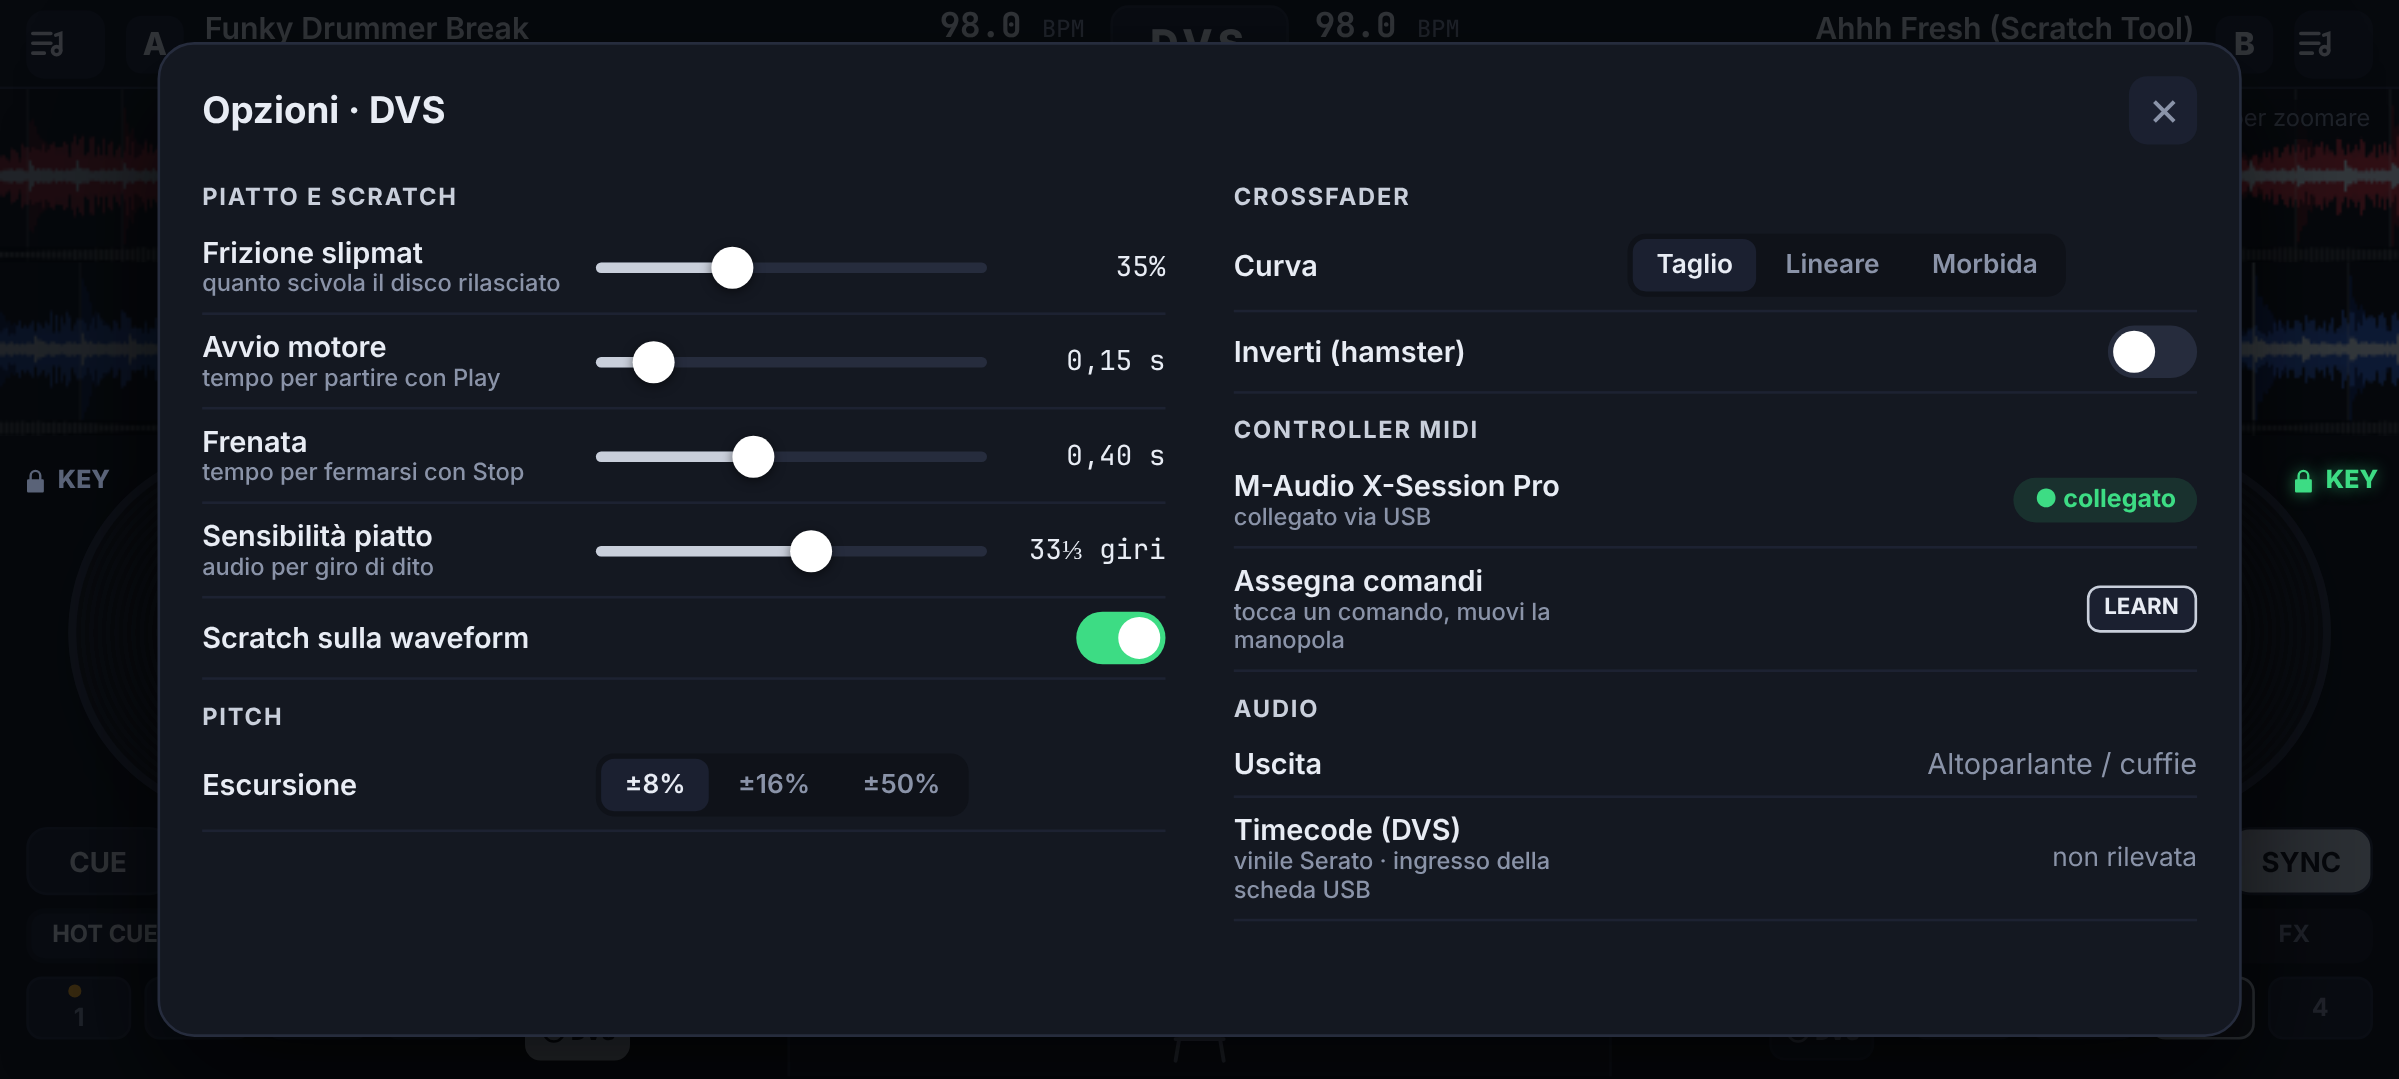
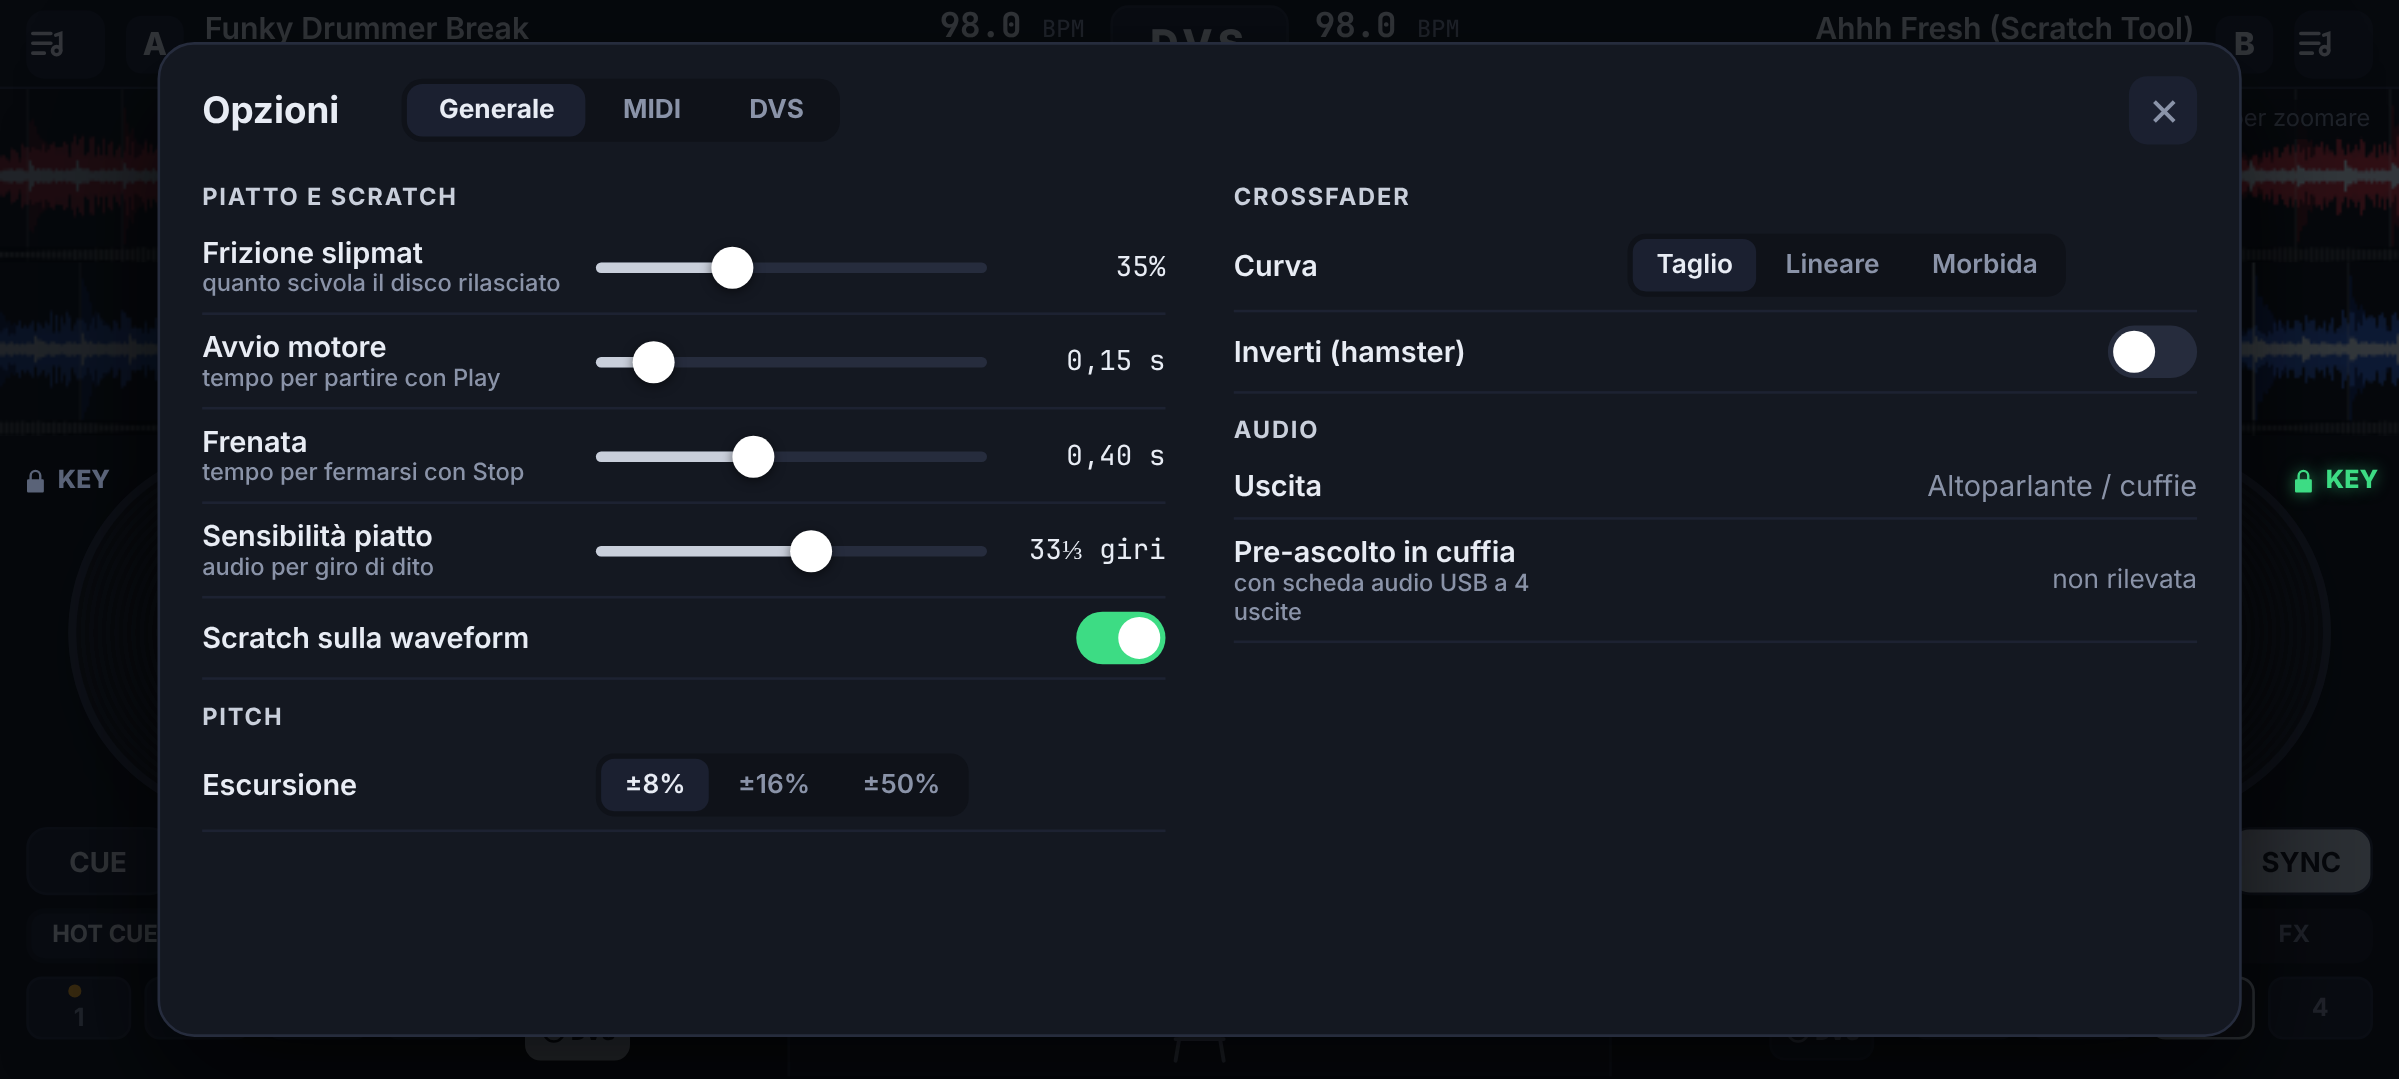
Bozze: opzioni a schede con taratura DVS, MIDI e modalità LEARN
Claude-Session: https://claude.ai/code/session_01Q6837TbCDCCjM1wxVviTqv

diff --git a/design/bozze.html b/design/bozze.html
@@ -219,6 +219,30 @@ html,body{width:914px;height:411px;overflow:hidden;background:var(--bg);color:va
 .dlf{margin-top:auto;padding:5px 8px;font-size:8.5px;color:var(--dim);border-top:1px solid var(--line);display:flex;justify-content:space-between}
 .dlrow-f{display:flex;align-items:center;gap:8px;padding:0 9px;height:27px;border-top:1px solid #1a1f2c;font-size:10px;font-weight:600}
 .dlrow-f em{font-style:normal;color:var(--dim);font-weight:500;margin-left:auto;font-size:9px}
+
+.sheet h2{gap:10px}
+.otabs{display:flex;gap:2px;background:#0f1219;border-radius:8px;padding:2px;margin-right:auto;margin-left:14px}
+.otabs span{font-size:10px;font-weight:700;padding:4px 12px;border-radius:6px;color:var(--dim)}
+.otabs span.on{background:var(--panel2);color:var(--txt)}
+.scope{width:150px;height:150px;border-radius:50%;background:#070a0f;border:1px solid var(--line);display:block;margin:4px auto 6px}
+.dvsl{display:grid;grid-template-columns:170px 1fr;gap:0 20px}
+.stat{display:flex;justify-content:space-between;font-size:10px;padding:3px 0;border-bottom:1px solid #1d2232}
+.stat b{font-family:'JetBrains Mono';font-weight:600}
+.btn2{display:inline-block;font-size:10px;font-weight:700;padding:5px 10px;border-radius:7px;background:var(--panel2);border:1px solid var(--line);color:var(--txt)}
+.btn2.pri{background:#c9cfdb;color:#0b0d12;border-color:#c9cfdb}
+.vu{flex:1;height:6px;border-radius:3px;background:linear-gradient(90deg,var(--ok) 0 70%,var(--warn) 70% 88%,#ff4040 88%);position:relative;overflow:hidden}
+.vu i{position:absolute;top:0;bottom:0;right:0;background:#0b0d12;display:block}
+.mt{width:100%;border-collapse:collapse;font-size:10px}
+.mt th{text-align:left;font-size:8.5px;color:var(--dim);letter-spacing:.5px;padding:3px 6px;font-weight:700}
+.mt td{padding:4px 6px;border-top:1px solid #1d2232}
+.mt td.mono{font-family:'JetBrains Mono';font-size:9.5px;color:var(--dim)}
+.mt td.x{color:#5a6378;text-align:right}
+.mtwrap{height:180px;overflow:hidden;border:1px solid var(--line);border-radius:8px;margin-top:4px}
+.learnbar{position:absolute;left:300px;right:300px;top:38px;z-index:20;background:#3ddc84;color:#0b0d12;font-weight:700;font-size:10.5px;border-radius:8px;padding:6px 10px;display:flex;justify-content:space-between;align-items:center;box-shadow:0 6px 18px #0009}
+.learnbar b{background:#0b0d12;color:#3ddc84;padding:2px 8px;border-radius:5px;font-size:9.5px}
+.lrn{outline:1.5px dashed #3ddc84aa;outline-offset:2px;border-radius:6px}
+.lrnsel{outline:2px solid #3ddc84;outline-offset:3px;border-radius:6px;box-shadow:0 0 12px #3ddc8466}
+.lrntag{position:absolute;font-size:8px;font-weight:800;background:#3ddc84;color:#0b0d12;padding:1px 4px;border-radius:4px;z-index:21}
 </style>
 </head>
 <body>
@@ -331,7 +355,7 @@ html,body{width:914px;height:411px;overflow:hidden;background:var(--bg);color:va
   <div id="s3bg"></div>
   <div class="dim"></div>
   <div class="sheet">
-    <h2>Opzioni · DVS <span class="ico"><svg viewBox="0 0 24 24" fill="none" stroke="currentColor" stroke-width="2.4"><path d="M6 6l12 12M18 6L6 18"/></svg></span></h2>
+    <h2><span>Opzioni</span><span class="otabs"><span class="on">Generale</span><span>MIDI</span><span>DVS</span></span><span class="ico"><svg viewBox="0 0 24 24" fill="none" stroke="currentColor" stroke-width="2.4"><path d="M6 6l12 12M18 6L6 18"/></svg></span></h2>
     <div class="cols">
       <div>
         <h3>PIATTO E SCRATCH</h3>
@@ -347,12 +371,9 @@ html,body{width:914px;height:411px;overflow:hidden;background:var(--bg);color:va
         <h3>CROSSFADER</h3>
         <div class="opt"><div class="n">Curva</div><div class="seg"><span class="on">Taglio</span><span>Lineare</span><span>Morbida</span></div></div>
         <div class="opt"><div class="n">Inverti (hamster)</div><div style="flex:1"></div><div class="sw"></div></div>
-        <h3>CONTROLLER MIDI</h3>
-        <div class="opt"><div class="n">M-Audio X-Session Pro<small>collegato via USB</small></div><div style="flex:1"></div><span class="pill" style="background:#3ddc8422;color:var(--ok)">● collegato</span></div>
-        <div class="opt"><div class="n">Assegna comandi<small>tocca un comando, muovi la manopola</small></div><div style="flex:1"></div><span class="chip" style="color:var(--txt);border-color:var(--a)">LEARN</span></div>
         <h3>AUDIO</h3>
         <div class="opt"><div class="n">Uscita</div><div style="flex:1"></div><span class="m" style="color:var(--dim)">Altoparlante / cuffie</span></div>
-        <div class="opt"><div class="n">Timecode (DVS)<small>vinile Serato · ingresso della scheda USB</small></div><div style="flex:1"></div><span style="color:var(--dim);font-size:10px">non rilevata</span></div>
+        <div class="opt"><div class="n">Pre-ascolto in cuffia<small>con scheda audio USB a 4 uscite</small></div><div style="flex:1"></div><span style="color:var(--dim);font-size:10px">non rilevata</span></div>
       </div>
     </div>
   </div>
@@ -469,6 +490,76 @@ libScreen('s7',1,libPanel('B','Cartelle',
   brano('Battle Weapon Vol.2','Skratch Sounds','98.0','6:12')+
   brano('Baby Scratch Loops','Q-Bert','88.0','3:02'),
   '<span>tocca un brano: si carica nel deck B</span><span>Scratch tools</span>'));
+
+
+function optScreen(id,tab,html){
+  const sc=document.getElementById('s3').cloneNode(true);sc.id=id;
+  sc.querySelector('#s3bg')?.remove();
+  const bg=document.getElementById('s1').cloneNode(true);bg.id='';bg.classList.add('on');
+  bg.querySelectorAll('canvas').forEach((c,i)=>{c.getContext('2d').drawImage(document.getElementById(i?'wb':'wa'),0,0)});
+  sc.insertBefore(bg,sc.firstChild);
+  sc.querySelectorAll('.otabs span').forEach(s=>s.classList.toggle('on',s.textContent===tab));
+  sc.querySelector('.cols').outerHTML=html;
+  document.body.appendChild(sc);return sc;
+}
+const opt=(n,sub,ctrl)=>`<div class="opt"><div class="n">${n}${sub?`<small>${sub}</small>`:''}</div><div style="flex:1"></div>${ctrl}</div>`;
+const seg=(arr,on)=>`<div class="seg">${arr.map(a=>`<span class="${a===on?'on':''}">${a}</span>`).join('')}</div>`;
+const sl=(p,v)=>`<div class="hs" style="max-width:150px"><i style="width:${p}%"></i><b style="left:${p}%"></b></div><div class="v">${v}</div>`;
+// --- DVS
+const sDvs=optScreen('s8','DVS',`<div class="dvsl">
+  <div>
+    <canvas class="scope" id="scope" width="300" height="300"></canvas>
+    <div class="stat"><span>Segnale</span><b style="color:var(--ok)">96% · buono</b></div>
+    <div class="stat"><span>Velocità</span><b>+0,3%  ▶</b></div>
+    <div class="stat"><span>Posizione</span><b>01:42.6</b></div>
+    <div style="display:flex;gap:6px;margin-top:6px"><span class="btn2 pri">Calibra</span><span class="btn2">Azzera</span></div>
+  </div>
+  <div>
+    <h3>SEGNALE TIMECODE</h3>
+    ${opt('Scheda audio','Behringer UMC404HD · USB','<span class="pill" style="background:#3ddc8422;color:var(--ok)">● collegata</span>')}
+    ${opt('Ingresso','dove arriva il giradischi',seg(['1–2','3–4'],'1–2'))}
+    ${opt('Livello ingresso','porta il segnale nel verde','<div class="vu" style="max-width:90px"><i style="width:35%"></i></div>'+sl(60,'+6 dB'))}
+    ${opt('Tipo di timecode','',seg(['Serato CV02','Traktor','MixVibes'],'Serato CV02'))}
+    ${opt('Giri','',seg(['33⅓','45'],'33⅓'))}
+    <h3>COME SEGUE IL VINILE</h3>
+    ${opt('Modalità','assoluta = posizione del vinile',seg(['Assoluta','Relativa'],'Relativa'))}
+    ${opt('Sensibilità a disco fermo','più alta = si ferma prima',sl(45,'45%'))}
+    ${opt('Protezione salto puntina','ignora i salti in relativa','<div class="sw on"></div>')}
+  </div></div>`);
+// --- MIDI
+const righe=[['Crossfader','CC 8 · can 1'],['Volume A','CC 1 · can 1'],['Volume B','CC 2 · can 1'],['Gain A','CC 10 · can 1'],
+ ['Hi / Mid / Low A','CC 11–13 · can 1'],['Filtro A','CC 14 · can 1'],['Play A','Nota 46 · can 1'],['Cue A','Nota 44 · can 1'],
+ ['Sync A','Nota 45 · can 1'],['Hot cue 1–4 A','Note 48–51 · can 1'],['FX A on','Nota 52 · can 1'],['FX A dry/wet','CC 15 · can 1']];
+optScreen('s9','MIDI',`<div class="cols"><div>
+    <h3>CONTROLLER</h3>
+    ${opt('M-Audio X-Session Pro','collegato via USB','<span class="pill" style="background:#3ddc8422;color:var(--ok)">● collegato</span>')}
+    ${opt('Mappatura','preset salvato per questo controller',seg(['X-Session Pro','Personale 1'],'X-Session Pro'))}
+    ${opt('Assegna comandi','LEARN: tocchi un comando dell’app e muovi quello del controller','<span class="btn2 pri">LEARN</span>')}
+    ${opt('Togli tutte le assegnazioni','','<span class="btn2">Azzera</span>')}
+    <h3>COMANDI ASSEGNABILI</h3>
+    <div style="font-size:9.5px;color:var(--dim);line-height:1.5">Crossfader e curva · volumi · gain · EQ · filtri · master · Play · Cue · Sync · KEY · DVS ·
+    pitch · hot cue 1–4 · loop · FX on/off, scelta, dry/wet e parametri · libreria (scorri e carica) · scratch col jog (in futuro)</div>
+  </div><div>
+    <h3>ASSEGNAZIONI</h3>
+    <div class="mtwrap"><table class="mt"><tr><th>FUNZIONE</th><th>CONTROLLER</th><th></th></tr>
+    ${righe.map(r=>`<tr><td>${r[0]}</td><td class="mono">${r[1]}</td><td class="x">✕</td></tr>`).join('')}</table></div>
+  </div></div>`);
+// --- schermata principale in LEARN
+(function(){
+  const sc=document.getElementById('s1').cloneNode(true);sc.id='s10';
+  sc.querySelectorAll('canvas').forEach((c,i)=>{c.getContext('2d').drawImage(document.getElementById(i?'wb':'wa'),0,0)});
+  sc.insertAdjacentHTML('beforeend','<div class="learnbar"><span>LEARN · tocca un comando, poi muovi quello dell’X-Session</span><b>FINE</b></div>');
+  sc.querySelectorAll('.knob,.kslim,.kfilt,.vfader,.vslider,.btn,.pad,.klock').forEach(el=>el.classList.add('lrn'));
+  const xt=sc.querySelector('.xtrack');xt.classList.add('lrnsel');
+  document.body.appendChild(sc);
+  sc.querySelector('.xf3').insertAdjacentHTML('afterbegin','<span class="lrntag" style="margin-top:-30px">in attesa… muovi il crossfader</span>');
+})();
+
+
+(function(){const c=document.getElementById('scope');if(!c)return;const x=c.getContext('2d'),r=rng(11);x.fillStyle='#070a0f';x.fillRect(0,0,300,300);
+ x.strokeStyle='#1d2232';x.lineWidth=1;x.beginPath();x.moveTo(150,10);x.lineTo(150,290);x.moveTo(10,150);x.lineTo(290,150);x.stroke();
+ for(let i=0;i<2600;i++){const a=r()*Math.PI*2,rad=95+ (r()-0.5)*9 + (Math.sin(a*3)*2);x.fillStyle='rgba(61,220,132,'+(0.25+0.5*r())+')';x.fillRect(150+Math.cos(a)*rad,150+Math.sin(a)*rad,2,2)}
+ x.fillStyle='#3ddc84';x.font='bold 14px Inter';x.textAlign='center';x.fillText('TIMECODE',150,152);})();
 
 const s=new URLSearchParams(location.search).get('s')||'1';
 document.getElementById('s'+s).classList.add('on');

diff --git a/CLAUDE.md b/CLAUDE.md
@@ -50,8 +50,18 @@ L'app si chiama **DVS** (27/10/2026; prima "Djaaay"). Nel codice il package Kotl
 - **Libreria per deck**: il pulsante libreria di un deck apre la libreria DENTRO lo spazio di quel deck (sotto le waveform,
   senza coprire il mixer). Ricerca, tab Tutti / Cartelle / Playlist / Recenti, BPM e durata; tocco su un brano = caricato
   in quel deck. Il brano già caricato è in grigio.
-- Opzioni: frizione slipmat, avvio, frenata, sensibilità piatto, scratch su waveform, escursione pitch, curva e inverti
-  crossfader, MIDI (X-Session, LEARN), audio (uscita, pre-ascolto con scheda USB).
+- **Opzioni** (si aprono toccando DVS) a schede:
+  - *Generale*: frizione slipmat, avvio, frenata, sensibilità piatto, scratch su waveform, escursione pitch ±8/16/50,
+    curva e inverti crossfader, uscita audio, pre-ascolto (scheda USB).
+  - *MIDI*: controller collegato, preset di mappatura per controller (X-Session Pro predefinito + personali), LEARN,
+    elenco assegnazioni con ✕, azzera. **Tutti i comandi principali sono assegnabili**: crossfader e curva, volumi, gain,
+    EQ, filtri, master, Play, Cue, Sync, KEY, DVS, pitch, hot cue 1–4, loop, FX (on/off, scelta, dry/wet, parametri),
+    libreria (scorri e carica), in futuro scratch col jog.
+  - *Modalità LEARN* sulla schermata principale: barra verde in alto con FINE, comandi assegnabili bordati in verde
+    tratteggiato, quello scelto bordato pieno con "in attesa… muovi …".
+  - *DVS* (taratura): scope circolare del segnale (anello verde = buono), qualità %, velocità, posizione, Calibra/Azzera;
+    scheda audio, ingresso 1–2 / 3–4, livello ingresso con meter, tipo timecode (Serato CV02, Traktor, MixVibes),
+    giri 33⅓/45, modalità assoluta/relativa, sensibilità a disco fermo, protezione salto puntina.
 
 ## Architettura
 
